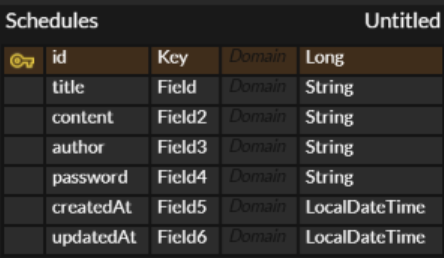
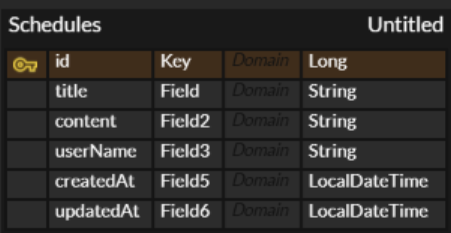
docs: API 명세서 및 ERD 수정

diff --git a/README.md b/README.md
@@ -16,9 +16,8 @@
 ```json
 {
   "title" : "일정 제목",
-  "author" : "작성자명",
-  "content" : "일정 내용",
-  "password" : "비밀번호"
+  "userName" : "작성자명",
+  "content" : "일정 내용"
 }
 ```
 #### Response
@@ -26,7 +25,7 @@
 {
   "id" : 1,
   "title" : "일정 제목",
-  "author" : "작성자명",
+  "userName" : "작성자명",
   "content" : "일정 내용",
   "createdAt" : "2026-04-10T14:30:00",
   "updatedAt" : "2026-04-10T14:30:00"
@@ -43,7 +42,7 @@
 {
   "id" : 1,
   "title" : "일정 제목",
-  "author" : "작성자명",
+  "userName" : "작성자명",
   "content" : "일정 내용",
   "createdAt" : "2026-04-10T14:30:00",
   "updatedAt" : "2026-04-10T14:30:00"
@@ -60,7 +59,7 @@
   {
     "id" : 1,
     "title" : "일정 제목",
-    "author" : "작성자명",
+    "userName" : "작성자명",
     "content" : "일정 내용",
     "createdAt" : "2026-04-10T14:30:00",
     "updatedAt" : "2026-04-10T14:30:00"
@@ -77,8 +76,7 @@
 ```json
 {
   "title" : "일정 제목",
-  "author" : "작성자명",
-  "password" : "비밀번호"
+  "userName" : "작성자명"
 }
 ```
 
@@ -87,7 +85,7 @@
 {
   "id" : 1,
   "title" : "일정 제목",
-  "author" : "작성자명",
+  "userName" : "작성자명",
   "content" : "일정 내용",
   "createdAt" : "2026-04-10T14:30:00",
   "updatedAt" : "2026-04-10T14:30:00"
@@ -98,12 +96,6 @@
 - Method : DELETE
 - URL : /schedules/{scheduleId}
 - Path Variable : scheduleId
-#### Request
-```json
-{
-  "password": "비밀번호"
-}
-```
 
 #### Response (204 No Content)
 
